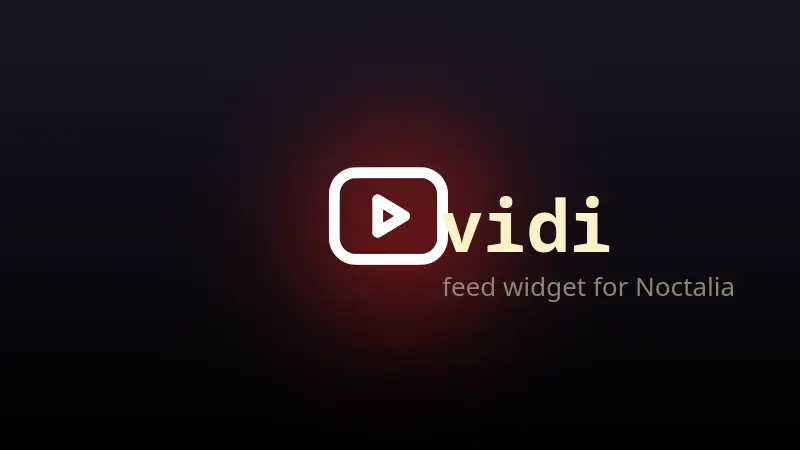
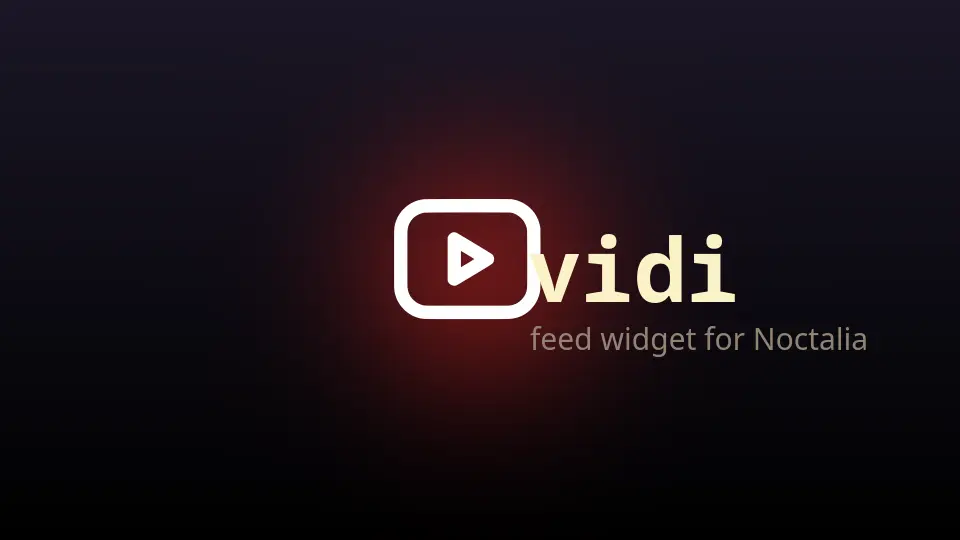
Prepare for community catalog: 960x540 thumbnail, lowercase translation keys, templated README

Changed region(s): [[0.4062, 0.3422, 0.9375, 0.6844]]

diff --git a/README.md b/README.md
@@ -1,96 +1,57 @@
-# Vidi plugin for Noctalia
+# Vidi
 
-A bar widget and panel showing the latest videos from [vidi](https://github.com/Fel-2/Vidi)'s
-subscription feed, right in your Noctalia v5 bar.
+Latest videos from [vidi](https://github.com/Fel-2/Vidi)'s subscription feed, right in your
+Noctalia bar — an unread badge plus a panel with the newest uploads, thumbnails included.
 
-![thumbnail](thumbnail.webp)
+## Plugin
 
-## Features
-
-- **Bar widget** with an unread badge — shows how many videos have been published since
-  you last checked the feed.
-- **Panel** listing the newest videos (up to 30) with channel, duration, views and age.
-- **Thumbnails** from vidi's preview image cache when available (`~/.cache/vidi/preview_images`).
-- Click a video to play it **directly in vidi** (`vidi <url>` deep-link, vidi ≥ 0.5.0) —
-  browser, mpv or copy-link are also selectable per settings.
-- Shorts can be excluded from the list and the unread count.
-- Efficient by design: reads vidi's feed cache (`~/.cache/vidi/feed_cache.json`) through
-  a `jq` compaction pass so no script callback ever parses the full file.
+| Field | Value |
+| --- | --- |
+| ID | `fel/vidi` |
+| Entries | Bar widget: `latest`; panel: `feed` |
+| Launcher Prefix | none |
 
 ## Requirements
 
-| Dependency | Why |
-|---|---|
-| Noctalia v5 with `plugin_api` ≥ 24 | current shells ship API ≥ 26 |
-| [vidi](https://github.com/Fel-2/Vidi) ≥ 0.5.0 | feed cache + CLI deep-link |
-| jq | compaction of the feed cache |
-
-## Install
-
-### Option A — as a plugin source (recommended)
-
-Adding the repo as a source lets Noctalia track updates:
-
-```sh
-noctalia msg plugins source add fel git https://github.com/Fel-2/noctalia-vidi-plugin
-```
-
-Then enable the plugin:
-
-```sh
-noctalia msg plugins enable fel/vidi
-```
-
-and add the widget to your bar (Noctalia settings → bar, widget name `fel/vidi:latest`,
-end zone is a good spot), or:
-
-```sh
-syskit bar widget-add end fel/vidi:latest --force   # if you use syskit
-```
-
-### Option B — manual
-
-Clone anywhere and symlink into Noctalia's local plugin directory (same workflow used
-during development):
-
-```sh
-git clone https://github.com/Fel-2/noctalia-vidi-plugin.git
-ln -s "$(pwd)/noctalia-vidi-plugin" ~/.local/share/noctalia/plugins/vidi
-noctalia plugins lint ~/.local/share/noctalia/plugins/vidi
-noctalia msg plugins enable fel/vidi
-```
-
-Then add `fel/vidi:latest` to your bar layout via Noctalia's bar settings.
+Install `vidi` (≥ 0.5.0) and `jq` on `PATH`. The widget reads vidi's feed cache
+(`~/.cache/vidi/feed_cache.json`), so open the Subscriptions screen in vidi at least once
+to build it. Playing a video in vidi needs the CLI deep-link added in vidi 0.5.0.
 
 ## Usage
 
-| Gesture / action | Result |
-|---|---|
-| Widget left click | toggle the feed panel |
-| Widget right click | open vidi in a terminal |
-| Widget middle click | mark the whole feed as seen |
-| Panel row click | open the video (default: play in vidi) |
-| Panel copy button | copy the video URL |
-| Panel header button | open vidi in a terminal |
-| Opening the panel | marks the feed seen |
+Add the widget to your bar in Noctalia's bar settings (widget `fel/vidi:latest`), or:
+
+```sh
+syskit bar widget-add end fel/vidi:latest --force   # when using syskit
+```
+
+The widget shows the number of videos published since you last checked the feed. Left
+click opens the panel, right click marks everything seen, middle click re-reads the feed
+cache. The panel lists the newest `max_items` videos; clicking a row opens the video
+(default: play it in vidi), the copy button copies its URL, and the header button opens
+vidi in a terminal. Opening the panel marks the feed seen.
+
+Toggle the panel from anywhere:
+
+```sh
+noctalia msg panel-toggle fel/vidi:feed
+```
 
 ## Settings
 
-| Setting | Default | Description |
-|---|---|---|
-| Maximum videos | 10 | how many videos the panel lists (3–30) |
-| Include shorts | off | count and show YouTube shorts |
-| Thumbnails | on | use thumbnails cached by vidi when available |
-| Click action | Open in vidi | what happens on row click (vidi / mpv / browser / copy) |
+| Setting | Type | Default | Description |
+| --- | --- | --- | --- |
+| `max_items` | `int` | `10` | How many videos the panel lists (3–30). |
+| `include_shorts` | `bool` | `false` | Count and show YouTube shorts in the feed and unread count. |
+| `show_thumbnails` | `bool` | `true` | Use thumbnails vidi has cached in `~/.cache/vidi/preview_images` when available. |
+| `open_action` | `select` | `vidi` | What happens on row click: `vidi`, `mpv`, `browser`, or `copy`. |
 
 ## Notes
 
-- The plugin only **reads** vidi's cache; refreshing happens inside vidi — open the
-  Subscriptions screen there once before first use, and whenever you want fresh data.
-  Until then the panel shows a hint instead of a list.
-- The unread counter persists across shell restarts
-  (`~/.local/state/noctalia/plugins/data/fel/vidi/seen.json`).
-
-## License
-
-MIT — see [LICENSE](LICENSE).
+- The widget only **reads** vidi's cache; refreshing happens inside vidi — open its
+  Subscriptions screen to pick up new uploads.
+- It spawns `jq` once per feed change to compact the cache, so Noctalia never parses the
+  full file in a script callback.
+- The unread marker persists at `~/.local/state/noctalia/plugins/data/fel/vidi/seen.json`.
+- Opening a video in vidi launches a terminal running `vidi <url>`; the mpv and browser
+  actions spawn `mpv`/`xdg-open` directly.
